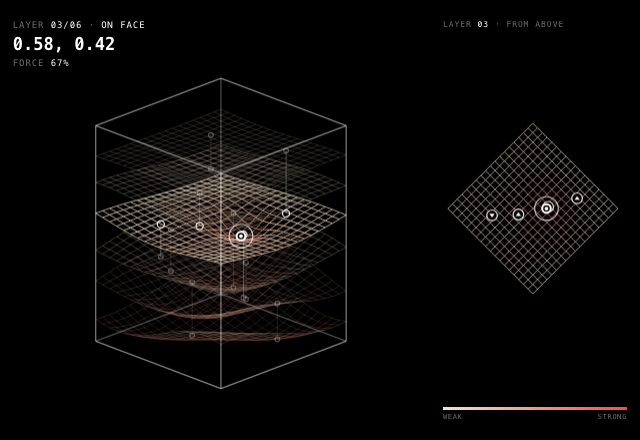
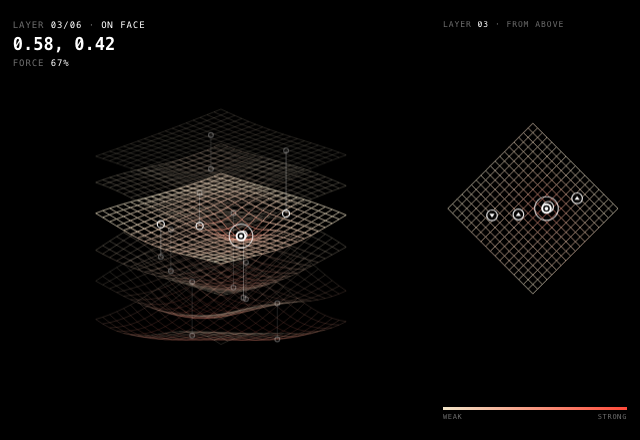
Week 04 field: no outer box; edges show only when hovered or ridden
Claude-Session: https://claude.ai/code/session_013PaiRT9mB3em9jBr45ZJeZ

diff --git a/week-04/week-04.html b/week-04/week-04.html
@@ -746,7 +746,7 @@
         <div class="set-box" id="set-field">
           <button type="button" class="set-card" aria-haspopup="dialog" aria-controls="dlg-field">
             <span class="set-thumbs" style="grid-template-columns:1fr" aria-hidden="true"><img src="images/process/field-1.png" alt="" loading="lazy" /></span>
-            <span class="set-head"><span class="set-num">Set 4</span><span class="set-name">Field</span><span class="set-line">One slider, whole: six mesh layers in a box, threads between them. Move freely over a layer, catch a thread at a connection point to ride to another layer, fine-tune on the flat view.</span></span>
+            <span class="set-head"><span class="set-num">Set 4</span><span class="set-name">Field</span><span class="set-line">One slider, whole: six mesh layers, threads between them. Move freely over a layer, catch a thread at a connection point to ride to another layer, fine-tune on the flat view.</span></span>
             <span class="set-open" aria-hidden="true"></span>
           </button>
           <dialog class="set-dialog" id="dlg-field" aria-labelledby="dlg-field-title">
@@ -758,11 +758,11 @@
               <h4>Prototype</h4>
               <div class="proto-grid" style="grid-template-columns:1fr">
                 <figure class="proto">
-                  <iframe src="week-04-field.html?v=6" title="Field slider: six floating mesh layers; drag over a layer, hold to lift between layers, fine-tune from above" loading="lazy" style="height:440px"></iframe>
+                  <iframe src="week-04-field.html?v=7" title="Field slider: six floating mesh layers; drag over a layer, hold to lift between layers, fine-tune from above" loading="lazy" style="height:440px"></iframe>
                   <figcaption>
                     <b>Field, faces and lines</b>
                     <span>Three values in one handle: which layer, and where on it. It moves freely over its layer, denting the mesh. Threads join connection points on different layers: bring the handle onto one and it rides the thread up or down to the other layer, pull off sideways to step onto it. The box's edges do the same through every layer. On the right, that layer from straight above, its connection points marked.</span>
-                    <button type="button" class="viewer-open" data-src="week-04-field.html?v=6">View larger</button>
+                    <button type="button" class="viewer-open" data-src="week-04-field.html?v=7">View larger</button>
                   </figcaption>
                 </figure>
               </div>

diff --git a/week-04/week-04-field.html b/week-04/week-04-field.html
@@ -65,7 +65,7 @@
     <h3>Box and layers</h3>
     <table>
       <tr><td>Field</td><td data-var="--w,--h" data-join=" × " data-after=", growing to 680px wide; the box on the left, the flat layer on the right"></td></tr>
-      <tr><td>Box</td><td>A wireframe box in isometric view, 1px white at 50%, its four upright edges the lines you ride</td></tr>
+      <tr><td>Box</td><td>None drawn: the layers stand in isometric view on their own; the four upright edges of the space they fill are lines you can ride, shown only when hovered or ridden</td></tr>
       <tr><td>Layers</td><td data-var="--layers" data-after=" meshes stacked 26px apart, each a grid of 18 × 18 cells, sagging deeper the lower they sit"></td></tr>
       <tr><td>Layer in use</td><td>Drawn at full strength; the others fade to 25%, the neighbours a little stronger</td></tr>
       <tr><td>Dent</td><td>Where the handle is, the mesh sinks up to 26px in a soft round dent, deepest while held</td></tr>
@@ -181,10 +181,8 @@
     press += ((down ? 1 : 0) - press) * .2;
     cx.clearRect(0, 0, W, H);
 
-    // back edges of the box first, then the layers top to bottom, then the front edges
+    // no box: the upright edges only show while one is hovered or ridden
     const top = CORNERS.map(([a, b]) => P(a, b, 0)), bot = CORNERS.map(([a, b]) => P(a, b, BOXH));
-    for (let i = 0; i < 4; i++) { edgeLine(top[i], top[(i + 1) % 4], .5); }
-    edgeLine(bot[3], bot[0], .3); edgeLine(bot[0], bot[1], .3); edgeLine(top[0], bot[0], .3);
 
     for (let L = 0; L < N; L++) {
       const w = Math.max(0, 1 - Math.abs(L - sp) / 1.4), alpha = .22 + .78 * Math.pow(w, 1.5);
@@ -208,10 +206,9 @@
     // the upright edges: the one in use (or hovered) lit, with a tick at every layer
     for (let c = 0; c < 4; c++) {
       const lit = (mode === 'edge' && edge === c) || (hover && hover.type === 'edge' && hover.c === c);
-      if (c !== 0) edgeLine(top[c], bot[c], lit ? 1 : .5, lit ? 1.25 : 1);
+      if (lit) edgeLine(top[c], bot[c], 1, 1.25);
       if (lit) for (let L = 0; L < N; L++) { const q = P(CORNERS[c][0], CORNERS[c][1], layerY(L)); edgeLine({ x: q.x - 4, y: q.y }, { x: q.x + 4, y: q.y }, .9); }
     }
-    edgeLine(bot[1], bot[2], .5); edgeLine(bot[2], bot[3], .5);
 
     // a cross under the pointer, on the face in use or on the flat view
     const L = Math.round(sp);
